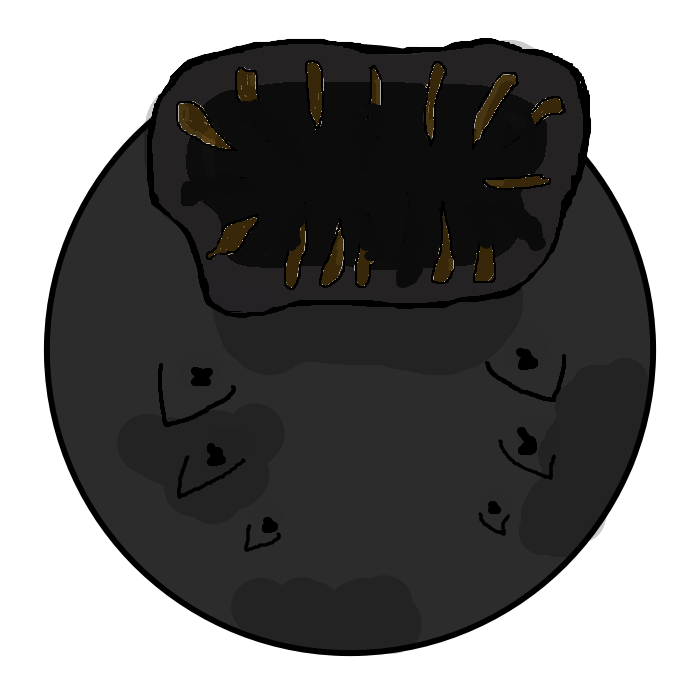
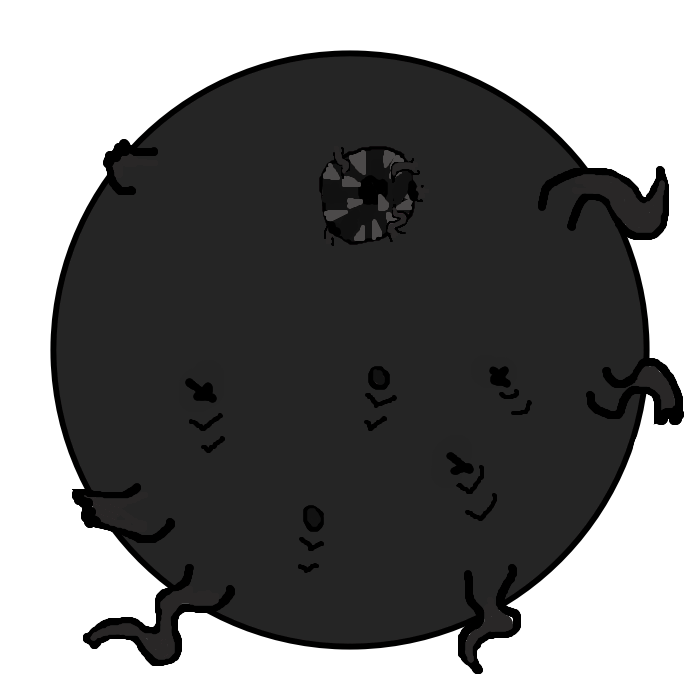
jellyfish

diff --git a/lib/monsters/kraken.py b/lib/monsters/kraken.py
@@ -1,76 +1,10 @@
-from threading import Thread
 from random import randint
 import time
 
 from . import DefaultMonster
 from . import set_hitbox_monster
 from . import Tentacle
-
-
-class _BaseTentacles:
-    def __init__(self, env, monster, identity):
-        self.half = monster.half
-        self.pos = int(monster.half * 0.8)
-        self.env = env
-        self.tools = env.mod.tools
-        self.monster = monster
-        self.id = identity
-        self.target = env.players[0]
-        self.update()
-
-        self.tentacles = []
-        for i in range(0, 6):
-            self.growing()
-
-    def _find_target(self):
-        d_objective = -1
-        target = None
-        x_objective = 0
-        y_objective = 0
-        for player in self.env.players:
-            if not player.lives:
-                continue
-            x, y, distance = self.tools.process_distance(player, self)
-            if target is None or d_objective > distance:
-                if not x and not y:
-                    return None, None
-                d_objective = distance
-                x_objective = x
-                y_objective = y
-                target = player
-        return target
-
-    def growing(self):
-        i = 0
-        while i != len(self.tentacles):
-            if not self.tentacles[i].lives:
-                del self.tentacles[i]
-            else:
-                i += 1
-        if len(self.tentacles):
-            tentacle = Tentacle(self.env, self.monster, self, self.tentacles[0].x, self.tentacles[0].y, len(self.tentacles))
-            self.tentacles[0].following = True
-            self.tentacles[0].target = tentacle
-        else:
-            tentacle = Tentacle(self.env, self.monster, self, self.x, self.y, 0)
-        t = Thread(target=tentacle.move, args=())
-        t.daemon = True
-        self.env.monsters.append(tentacle)
-        t.start()
-        self.tentacles.insert(0, tentacle)
-
-    def update(self):
-        if self.id < 3:
-            self.x = self.monster.x - self.pos
-        else:
-            self.x = self.monster.x + self.pos
-        if self.id % 2:
-            self.y = self.monster.y - self.pos
-        else:
-            self.y = self.monster.y + self.pos
-        target = self._find_target()
-        if target is not None:
-            self.target = target
+from . import BaseTentacles
 
 class Kraken(DefaultMonster):
     name = "kraken"
@@ -87,15 +21,27 @@ class Kraken(DefaultMonster):
 
         self.img = self.tools.set_imgs(env.img_folder + 'monsters/', self.name, self.dimensions)
         self.img_injured = self.tools.set_imgs(env.img_folder + 'monsters/', self.name + '_injured', self.dimensions)
+        self.img_spelling = self.tools.set_imgs(env.img_folder + 'monsters/', self.name + '_spelling', self.dimensions)
         self.img_dead = self.tools.set_imgs(env.img_folder + 'monsters/', self.name + '_dead', self.dimensions)
 
         self.hitbox = set_hitbox_monster(env, self, 0.7)
         Tentacle.build_class()
         self.tentacles_headers = []
         for i in range(1, 5):
-            self.tentacles_headers.append(_BaseTentacles(env, self, i))
+            self.tentacles_headers.append(BaseTentacles(env, self, i))
+
+        self.spelling = 0
+        self._next_spell()
+        self.spell_type = [self.sporing]
 
         self.next_enlargement()
+
+    def _next_spell(self):
+        self.spell = randint(390, 680)
+
+    def sporing(self):
+        for tentacles_header in self.tentacles_headers:
+            tentacles_header.spore_popping()
 
     def next_enlargement(self):
         self.expand = randint(100, 230)
@@ -112,12 +58,31 @@ class Kraken(DefaultMonster):
 #            img = self.img_furious[self.direction]
 #        elif self.spelling:
 #            img = self.img_spelling[self.direction]
+        elif self.spelling:
+            img = self.img_spelling[self.direction]
         elif self.injured:
             img = self.img_injured[self.direction]
         else:
             img = self.img[self.direction]
         self.tools.display(env, img, self.x, self.y, fitting)
         self._debug()
+
+    def hitted(self, attack=1):
+        if self.lives and not self.spelling:
+            self.injured = 12
+            self.lives -= attack
+            self.lives = 0 if self.lives < 0 else self.lives
+            return self.id_nb, attack
+        return None, None
+
+    def _action(self):
+        direction, _ = self._sniff_fresh_flesh()
+        if direction is not None:
+            self.direction = direction
+            if not self.spelling:
+                self.tools.move(self, direction, self.rapidity + self.env.furious)
+            self.hitbox.update_coords(self)
+        self._target_hitted()
 
     def move(self):
         self.tick = self.env.mod.tools.Tick()
@@ -153,3 +118,13 @@ class Kraken(DefaultMonster):
         else:
             self.growing()
             self.next_enlargement()
+        if not self.lives:
+            pass
+        elif self.spelling:
+            self.spelling -= 1
+        else:
+            self.spell -= 1
+            if not self.spell:
+                self.spell_type[randint(0, len(self.spell_type) - 1)]()
+                self.spelling = randint(45, 75)
+                self._next_spell()

diff --git a/lib/monsters/base_tentacles.py b/lib/monsters/base_tentacles.py
@@ -1,0 +1,82 @@
+from threading import Thread
+
+from . import Tentacle
+
+class BaseTentacles:
+    def __init__(self, env, monster, identity):
+        self.half = monster.half
+        self.pos = int(monster.half * 0.8)
+        self.env = env
+        self.tools = env.mod.tools
+        self.monster = monster
+        self.id = identity
+        self.target = env.players[0]
+        self.update()
+
+        self.tentacles = []
+        for i in range(0, 6):
+            self.growing()
+
+    def _find_target(self):
+        d_objective = -1
+        target = None
+        x_objective = 0
+        y_objective = 0
+        for player in self.env.players:
+            if not player.lives:
+                continue
+            x, y, distance = self.tools.process_distance(player, self)
+            if target is None or d_objective > distance:
+                if not x and not y:
+                    return None, None
+                d_objective = distance
+                x_objective = x
+                y_objective = y
+                target = player
+        return target
+
+    def _kill_tentacles(self):
+        i = 0
+        while i != len(self.tentacles):
+            if not self.tentacles[i].lives:
+                del self.tentacles[i]
+            else:
+                i += 1
+
+    def spore_popping(self):
+        self._kill_tentacles()
+        if not len(self.tentacles):
+            self.growing()
+        self.tentacles[0].spore = True
+
+    def growing(self):
+        self._kill_tentacles()
+        if len(self.tentacles):
+            tentacle = Tentacle(self.env, self.monster, self, self.tentacles[0].x, self.tentacles[0].y, len(self.tentacles))
+            self.tentacles[0].following = True
+            self.tentacles[0].target = tentacle
+            if self.tentacles[0].spore:
+                self.tentacles[0].spore = False
+                tentacle.sporing = self.tentacles[0].sporing
+                tentacle.spore = True
+                self.tentacles[0].loading()
+        else:
+            tentacle = Tentacle(self.env, self.monster, self, self.x, self.y, 0)
+        t = Thread(target=tentacle.move, args=())
+        t.daemon = True
+        self.env.monsters.append(tentacle)
+        t.start()
+        self.tentacles.insert(0, tentacle)
+
+    def update(self):
+        if self.id < 3:
+            self.x = self.monster.x - self.pos
+        else:
+            self.x = self.monster.x + self.pos
+        if self.id % 2:
+            self.y = self.monster.y - self.pos
+        else:
+            self.y = self.monster.y + self.pos
+        target = self._find_target()
+        if target is not None:
+            self.target = target

diff --git a/lib/monsters/tentacle.py b/lib/monsters/tentacle.py
@@ -1,6 +1,7 @@
 
 #Python Lib
 from random import randint
+from threading import Thread
 
 #Current Module
 from . import DefaultMonster
@@ -13,11 +14,14 @@ class Tentacle(DefaultMonster):
     id_nb = 9
     following = False
     degeneration = 280
+    spore = False
 
     def build_class():
         Tentacle.img = Tentacle.tools.set_imgs(Tentacle.env.img_folder + 'monsters/', Tentacle.name, Tentacle.dimensions)
         Tentacle.img_injured = Tentacle.tools.set_imgs(Tentacle.env.img_folder + 'monsters/', Tentacle.name + '_injured', Tentacle.dimensions)
         Tentacle.img_dead = Tentacle.tools.set_imgs(Tentacle.env.img_folder + 'monsters/', Tentacle.name + '_dead', Tentacle.dimensions)
+        Tentacle.img_spore = Tentacle.tools.set_imgs(Tentacle.env.img_folder + 'monsters/', Tentacle.name + '_spore', Tentacle.dimensions)
+        Tentacle.bullet = Tentacle.env.mod.bullets.JellyFish.build_class(Tentacle.env)
 
     def __init__(self, env, monster, base, x, y, identity):
         self.x = x
@@ -27,6 +31,7 @@ class Tentacle(DefaultMonster):
         self.limit_coords = int(identity * 0.12 * self.dimensions)
         self.base = base
         self.monster = monster
+        self.loading()
 
         self.target = self.base.target
         class _TestCoords:
@@ -35,6 +40,9 @@ class Tentacle(DefaultMonster):
         self.test.x = x
         self.test.y = y
         self.test.rapidity += identity
+
+    def loading(self):
+        self.sporing = randint(65, 125)
 
     def _limits(self):
         if self.test.x > self.base.x + self.limit_coords:
@@ -85,9 +93,23 @@ class Tentacle(DefaultMonster):
 #            if self.env.walking_dead:
 #                img = self.img_possessed[self.direction]
 #            else:
+        elif self.spore:
+            img = self.img_spore[self.direction]
         elif self.injured:
             img = self.img_injured[self.direction]
         else:
             img = self.img[self.direction]
         self.tools.display(self.env, img, self.x, self.y, fitting)
         self._debug()
+
+    def update(self):
+        super().update()
+        if self.lives and self.spore:
+            self.sporing -= 1
+            if not self.sporing:
+                bullet = self.bullet(self.x, self.y, self.direction, self)
+                t = Thread(target=bullet.move, args=())
+                t.daemon = True
+                self.env.bullets.append(bullet)
+                t.start()
+                self.loading()

diff --git a/lib/bullets/jellyfish.py b/lib/bullets/jellyfish.py
@@ -1,0 +1,59 @@
+#Current Module
+from . import set_hitbox_bullet
+from . import DefaultBullet
+
+class   JellyFish(DefaultBullet):
+    rapidity = 2
+    rapidity_moving = 26
+    moving = True
+
+    @classmethod
+    def build_class(cls, env):
+        cls.img = env.mod.tools.set_imgs(env.img_folder + "bullets/", "jellyfish", env.player_dimensions)
+        cls.img_moving = env.mod.tools.set_imgs(env.img_folder + "bullets/", "jellyfish_moving", env.player_dimensions)
+        return cls
+
+    def __init__(self, x, y, direction, monster):
+        super().__init__(x, y, direction)
+        self.hitbox = set_hitbox_bullet(self.env, self, 0.19)
+        self.monster = monster
+        self.tools.move(self, self.direction)
+        self.ultimatum = 9
+
+    def _change_state(self):
+        if not self.moving:
+            self.ultimatum = 9
+        else:
+            self.ultimatum = 18
+        self.moving = not self.moving
+
+    def display(self, env):
+        if not self.moving:
+            self.tools.display(env, self.img[self.direction], self.x, self.y, self.fitting)
+        else:
+            self.tools.display(env, self.img_moving[self.direction], self.x, self.y, self.fitting)
+        if env.debug:
+            self.tools.display(env, self.hitbox.img, self.hitbox.x, self.hitbox.y)
+
+    def _target_hitted(self):
+        ret = False
+        for player in self.env.players:
+            if player.affected(self):
+                player.hitted(attack=self.attack)
+                ret = True
+        return ret
+
+    def move(self):
+        self.tick = self.env.mod.tools.Tick()
+        while True:
+            self.tools.move(self, self.direction, self.rapidity if not self.moving else self.rapidity_moving)
+            if self._limits_reached():
+                return self._dead()
+            self.hitbox.update_coords(self)
+            if self._target_hitted():
+                return self._dead()
+            self.ultimatum -= 1
+            if not self.ultimatum:
+                self._change_state()
+            if self._quit():
+                return

diff --git a/lib/bullets/arrow.py b/lib/bullets/arrow.py
@@ -5,6 +5,7 @@ from . import DefaultBullet
 class   Arrow(DefaultBullet):
     rapidity = 39
     attack=20
+
     def build_class(env, player):
         Arrow.img = env.mod.tools.set_imgs(env.img_folder + "bullets/", "arrow", player.dimensions)
         Arrow.player = player

diff --git a/lib/monsters/__init__.py b/lib/monsters/__init__.py
@@ -14,6 +14,7 @@ from .harpy import Harpy
 from .vines import Vines
 from .ent import Ent
 from .tentacle import Tentacle
+from .base_tentacles import BaseTentacles
 from .kraken import Kraken
 
 tab = [Zombie, Cyclops, JackLantern, Necromancer, Harpy, Ent]

diff --git a/lib/menus/game_over.py b/lib/menus/game_over.py
@@ -76,6 +76,7 @@ def game_over(env):
         for player in env.players:
             player.lives = player.max_lives
             player.score.total = 0
+            player.score.i = 0
         env.quit = False
         return
     welcome(env)

diff --git a/lib/bullets/__init__.py b/lib/bullets/__init__.py
@@ -8,3 +8,4 @@ from .double_bullet import DoubleBullet
 from .hell_star import HellStar
 from .rocket import Rocket
 from .thorns import Thorns
+from .jellyfish import JellyFish

diff --git a/main.py b/main.py
@@ -1,5 +1,4 @@
 #Python Lib
-import time
 import sys
 import os
 import pygame
